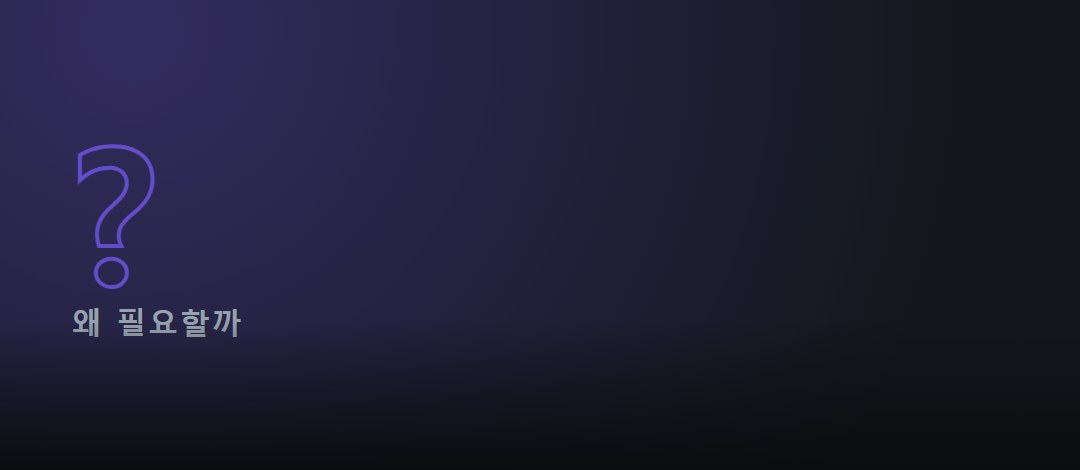
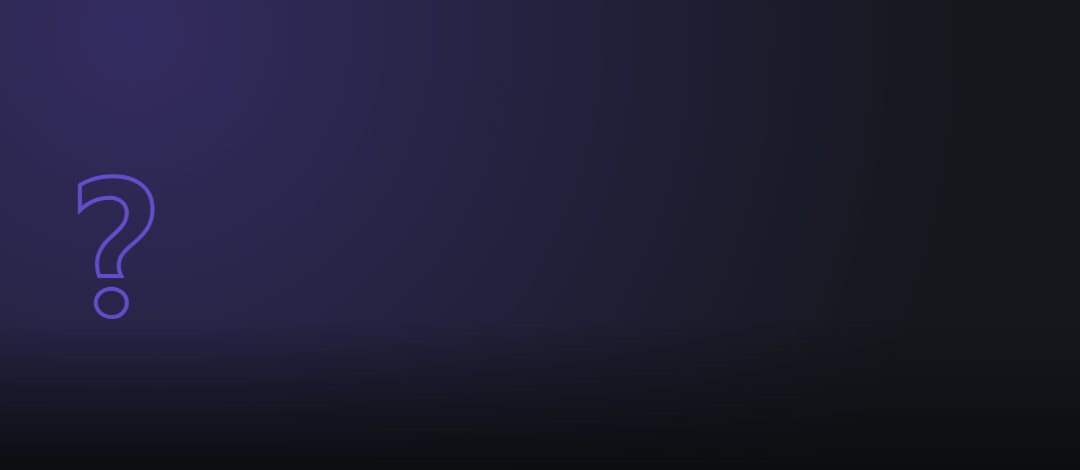
fix(imagery): 그래픽 라벨이 카드 eyebrow 와 겹치던 것 제거
problem 카드에서 물음표 아래 "왜 필요할까"가 바로 아래 eyebrow 와 같은 말이라
위아래로 두 번 보였다. why_now·quickstart 의 폴백 라벨도 같은 문제를 갖고 있어
함께 비웠다.

feature 의 "핵심 기능"만 남긴다 — 벌거벗은 번호에 의미를 주는 유일한 라벨이고
eyebrow("이런 걸 해요")와 다른 말이다.

라벨이 eyebrow 와 같아지면 실패하는 테스트를 넣어 재발을 막았다.

테스트 166개 통과.

Changed region(s): [[0.0611, 0.2979, 0.2444, 0.7149]]

diff --git a/agent/imagery.py b/agent/imagery.py
@@ -10,7 +10,7 @@
 | quickstart | 터미널 창 | 카드의 실제 설치 명령 |
 | fit | 이모지 세 단계 (👍 🤔 👎) | 고정 문구 |
 | feature | 큰 번호 01/02/03 | 카드 순서 |
-| problem | 큰 물음표 | — |
+| problem | 큰 물음표 (라벨 없음) | — |
 | cover, outro | 없음 | 간결해야 하는 카드 |
 
 **이미지 생성 모델을 쓰지 않는다.** 우리는 스타 증가량·설치 명령·기능명 같은
@@ -124,7 +124,13 @@ def run(deck: CardDeckFile, post_dir: Path, dry_run: bool = False) -> dict[str, 
 
 
 def _plan(card: Any, deck: CardDeckFile, research: ResearchFile | None) -> dict[str, Any] | None:
-    """카드 내용에서 그래픽에 넣을 값을 뽑는다."""
+    """카드 내용에서 그래픽에 넣을 값을 뽑는다.
+
+    라벨은 카드의 eyebrow 와 같은 말이면 안 된다. 그래픽 바로 아래에 eyebrow 가
+    오기 때문에 같은 문구가 두 번 보인다. 실제로 problem 카드에서 "왜 필요할까"가
+    위아래로 겹쳐 나왔다. feature 만 "핵심 기능" 을 남기는데, 벌거벗은 번호에
+    의미를 주는 유일한 라벨이고 eyebrow("이런 걸 해요")와 다른 말이기 때문이다.
+    """
     role = card.role
 
     if role in OG_ROLES:
@@ -138,13 +144,13 @@ def _plan(card: Any, deck: CardDeckFile, research: ResearchFile | None) -> dict[
             return {"kind": "stat", "delta": delta, "stars": stars,
                     "bars": _star_bars(deck)}
         # 증가량을 모르면 수치 카드가 거짓말이 된다. 다른 그림으로 넘어간다.
-        return {"kind": "mark", "mark": "↑", "label": "지금 뜨는 이유"}
+        return {"kind": "mark", "mark": "↑", "label": ""}
 
     if role == "quickstart":
         lines = [l for l in card.code if l.strip()][:3]
         if lines:
             return {"kind": "terminal", "lines": lines}
-        return {"kind": "mark", "mark": "$", "label": "직접 써보려면"}
+        return {"kind": "mark", "mark": "$", "label": ""}
 
     if role == "fit":
         # 조사 원문을 두 칸에 넣어봤으나 셋 다 틀렸다: 글자가 단어 중간에서
@@ -157,7 +163,7 @@ def _plan(card: Any, deck: CardDeckFile, research: ResearchFile | None) -> dict[
                 "label": "핵심 기능"}
 
     if role == "problem":
-        return {"kind": "mark", "mark": "?", "label": "왜 필요할까"}
+        return {"kind": "mark", "mark": "?", "label": ""}
 
     return {"kind": "mark", "mark": "*", "label": ""}
 

diff --git a/tests/test_imagery.py b/tests/test_imagery.py
@@ -152,3 +152,29 @@ class TestSourcesArePermitted:
 
     def test_concise_cards_are_excluded(self):
         assert imagery.NO_IMAGE == {"cover", "outro"}
+
+
+class TestMarkLabels:
+    """그래픽 라벨이 카드 eyebrow 와 같으면 같은 문구가 위아래로 두 번 보인다."""
+
+    def test_label_never_repeats_the_eyebrow(self):
+        from agent.render import EYEBROWS
+
+        deck = _deck()
+        for card in deck.payload.cards:
+            if card.role in imagery.NO_IMAGE:
+                continue
+            plan = imagery._plan(card, deck, _research())
+            label = plan.get("label")
+            if not label:
+                continue
+            assert label != EYEBROWS.get(card.role), (
+                f"{card.role}: 그래픽 라벨과 eyebrow 가 '{label}' 로 겹칩니다"
+            )
+
+    def test_problem_mark_has_no_label(self):
+        assert _plan("problem")["label"] == ""
+
+    def test_feature_keeps_its_label(self):
+        """벌거벗은 번호에 의미를 주는 유일한 라벨이라 남긴다."""
+        assert _plan("feature")["label"] == "핵심 기능"

diff --git a/SPEC.md b/SPEC.md
@@ -618,11 +618,12 @@ python -m agent design-sync
 | why_now | STARS TODAY 수치 + 일별 막대 | 스냅샷 이력 (실데이터) |
 | quickstart | 터미널 창 | 카드의 실제 설치 명령 |
 | feature | 큰 번호 01/02/03 | 카드 순서 |
-| problem | 큰 물음표 | — |
+| problem | 큰 물음표 (라벨 없음) | — |
 | fit | 이모지 세 단계 (👍 잘 맞아요 / 🤔 고민된다면 / 👎 아직 일러요) | 고정 문구 |
 | cover, outro | 없음 | 간결해야 하는 카드 |
 
 - **이미지 생성 모델을 쓰지 않는다.** 스타 증가량·설치 명령 같은 실제 데이터를 갖고 있고, 그걸 그리는 편이 생성 일러스트보다 정확하고 덜 상투적이다. 렌더링은 카드와 같은 Playwright 파이프라인을 재사용하므로 디자인 토큰이 자동으로 공유된다.
+- **그래픽 라벨이 카드 eyebrow 와 같으면 안 된다.** 그래픽 바로 아래에 eyebrow 가 오므로 같은 문구가 위아래로 두 번 보인다. `problem` 에서 "왜 필요할까"가 그렇게 겹쳤다. `feature` 의 "핵심 기능"만 남기는데, 벌거벗은 번호에 의미를 주는 유일한 라벨이고 eyebrow("이런 걸 해요")와 다른 말이기 때문이다. 테스트가 이 규칙을 강제한다.
 - **그래픽에 카드 제목을 넣지 않는다.** 넣어봤더니 같은 문장이 위아래로 두 번 나왔다. 그림은 리듬만 주고 내용은 카드가 말한다. 터미널 그래픽이 있으면 카드 본문의 코드 블록도 숨긴다 — 같은 명령이 두 번 보이기 때문이다.
 - 이모지는 렌더러의 시스템 이모지 폰트에 의존한다. 로컬(Windows)에서는 Segoe UI Emoji 로 렌더되며, 카드 배지의 ⭐ 도 같은 경로를 쓴다. CI 로 옮길 일이 생기면 이모지 폰트를 함께 설치해야 두부가 되지 않는다.
 - **없는 데이터를 그럴듯한 모양으로 채우지 않는다.** 스타 증가량을 모르면 수치 카드를 만들지 않고, 스냅샷이 3일치 미만이면 막대를 아예 그리지 않는다. 그건 그래프가 아니라 장식이다.
